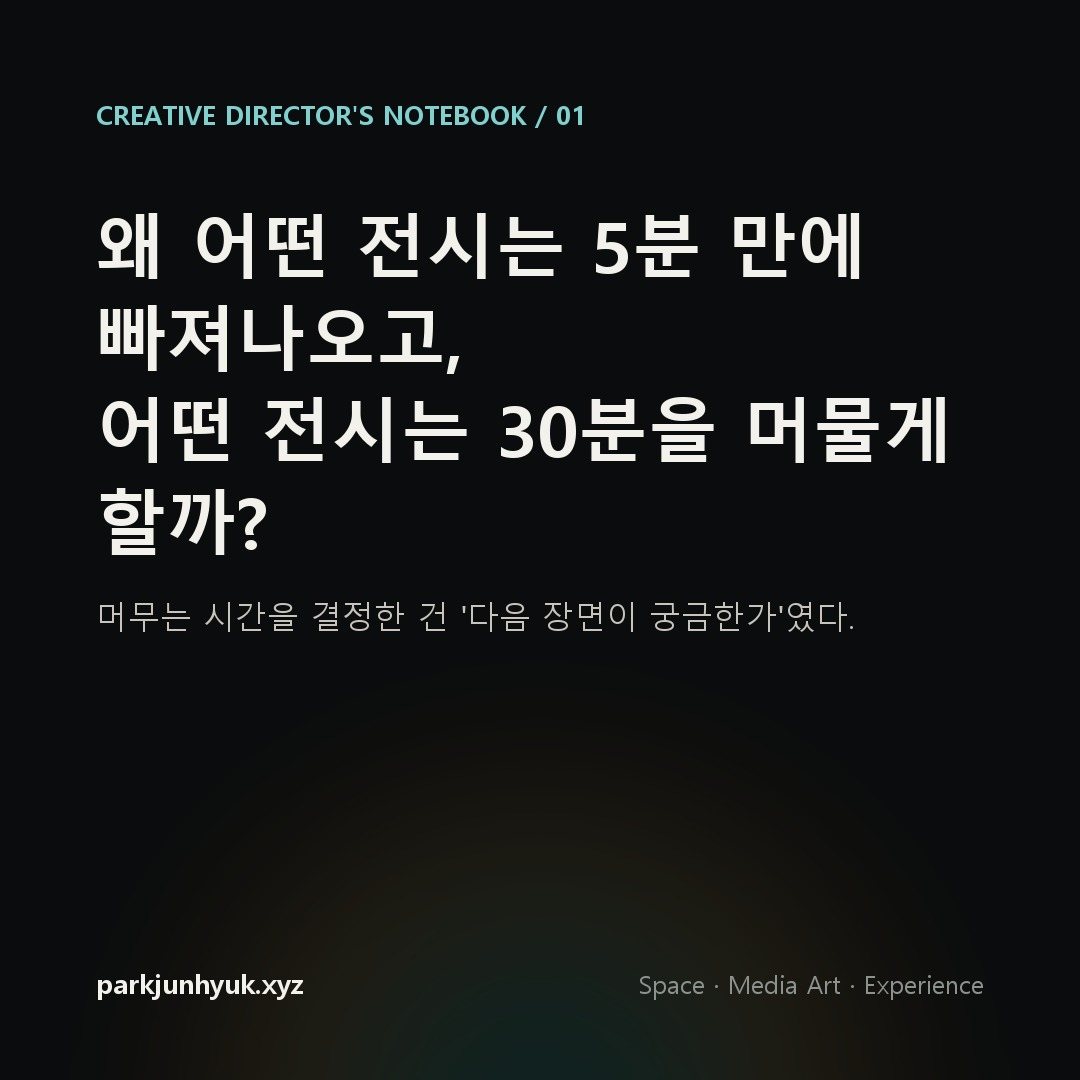
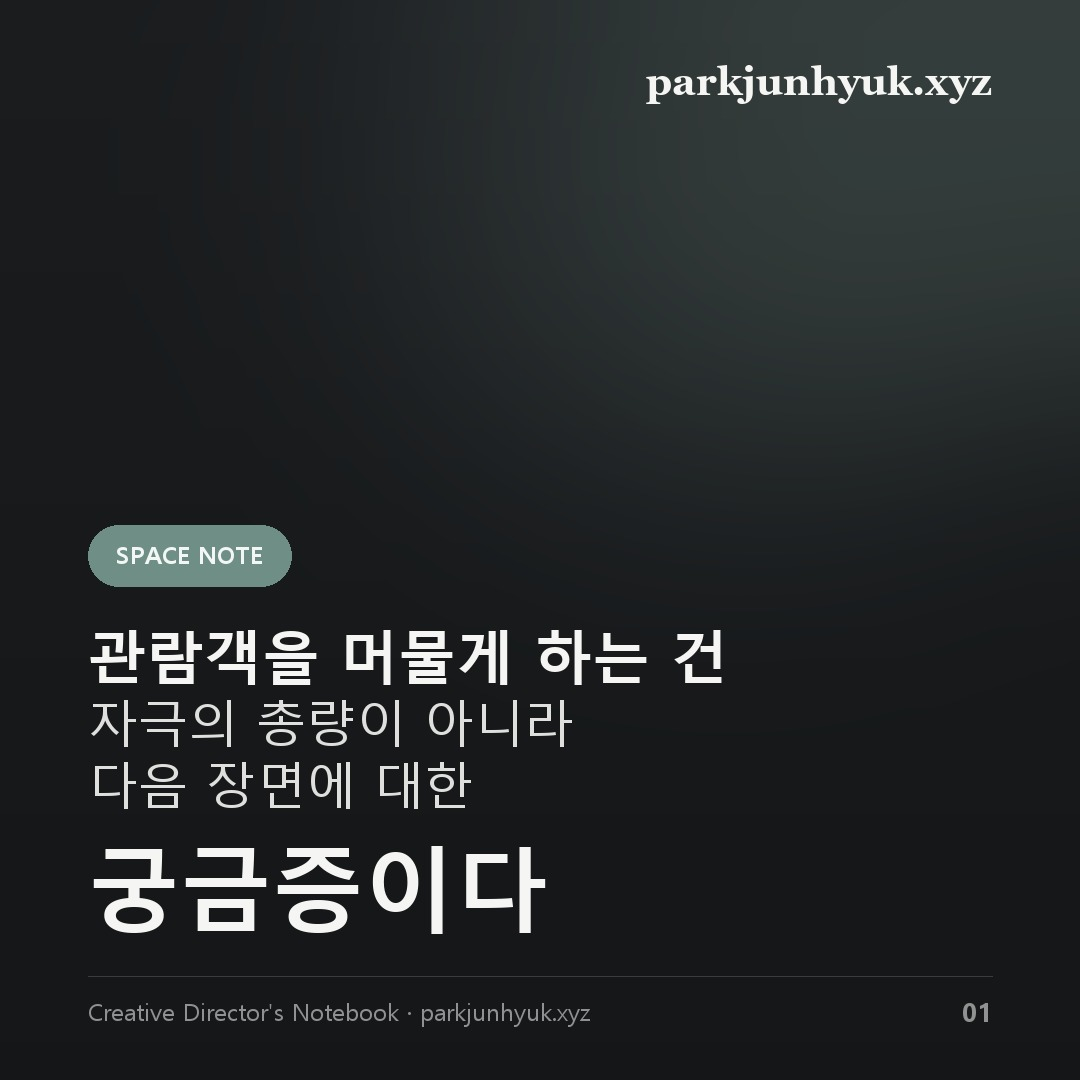
design: adopt NEWSROOM editorial poster (badge + mixed-weight headline + footer index)

diff --git a/make_image.py b/make_image.py
@@ -1,106 +1,181 @@
 """
-오늘의 IG 포스터 카드(1080x1080 JPEG)를 Pillow로 렌더링한다.
-브라우저/폰트 설치 없이 CI에서 동작하도록 시스템 한글 폰트를 자동 탐색한다.
+오늘의 IG 포스터 카드(1080x1080 JPEG) 렌더.
+참고 디자인: RIMAN 'NEWSROOM' 에디토리얼 템플릿.
+  - 다크 차콜 배경 + 상단 그라데이션 패널(선택적 사진)
+  - 우상단 세리프 워드마크
+  - 세이지 그린 알약형 카테고리 배지
+  - 혼합 굵기 헤드라인(강조 볼드 + 보조 라이트 + 거대 키워드)
+  - 푸터: 좌측 캡션 + 우측 인덱스 + 구분선
+브라우저/외부 폰트 없이 CI(Linux)에서 동작하도록 시스템 폰트를 자동 탐색한다.
 """
 import os
 from PIL import Image, ImageDraw, ImageFont, ImageFilter
 
 W = H = 1080
-BG = (10, 12, 13)
-FG = (243, 241, 236)
-TEAL = (127, 208, 207)
-AMBER = (231, 168, 90)
-SUB = (200, 196, 187)
-MUTED = (140, 147, 143)
 
-# 한글 폰트 후보 (CI Linux: fonts-noto-cjk / Windows: malgun)
-FONT_CANDIDATES_BOLD = [
+# 팔레트
+BG_TOP = (26, 28, 30)
+BG_BOT = (13, 14, 15)
+PILL = (111, 143, 134)        # muted sage green
+PILL_TX = (242, 246, 244)
+FG = (245, 245, 243)
+HEAD_SOFT = (223, 224, 222)   # 보조 헤드라인(라이트)
+CAPTION = (143, 146, 144)
+DIVIDER = (58, 61, 63)
+
+# ---- 폰트 후보 (CI Linux: fonts-noto-cjk / Windows: malgun, georgia) ----
+F_CJK_BOLD = [
     "/usr/share/fonts/opentype/noto/NotoSansCJK-Bold.ttc",
     "/usr/share/fonts/truetype/noto/NotoSansCJK-Bold.ttc",
     "fonts/NotoSansKR-Bold.ttf",
     "C:/Windows/Fonts/malgunbd.ttf",
-    "C:/Windows/Fonts/malgun.ttf",
 ]
-FONT_CANDIDATES_REG = [
+F_CJK_REG = [
     "/usr/share/fonts/opentype/noto/NotoSansCJK-Regular.ttc",
     "/usr/share/fonts/truetype/noto/NotoSansCJK-Regular.ttc",
     "fonts/NotoSansKR-Regular.ttf",
     "C:/Windows/Fonts/malgun.ttf",
 ]
+F_SERIF = [  # 우상단 워드마크용 세리프
+    "C:/Windows/Fonts/georgiab.ttf",
+    "C:/Windows/Fonts/georgia.ttf",
+    "/usr/share/fonts/truetype/dejavu/DejaVuSerif-Bold.ttf",
+    "/usr/share/fonts/truetype/liberation/LiberationSerif-Bold.ttf",
+]
 
 
-def _font(candidates, size):
-    for path in candidates:
-        if os.path.exists(path):
+def _font(cands, size):
+    for p in cands:
+        if os.path.exists(p):
             try:
-                return ImageFont.truetype(path, size)
+                return ImageFont.truetype(p, size)
             except Exception:
                 continue
     return ImageFont.load_default()
 
 
 def _wrap(draw, text, font, max_w):
-    """공백 단위 줄바꿈. \\n은 강제 줄바꿈."""
-    lines = []
+    out = []
     for para in text.split("\n"):
-        words = para.split(" ")
-        cur = ""
+        words, cur = para.split(" "), ""
         for w in words:
-            test = (cur + " " + w).strip()
-            if draw.textlength(test, font=font) <= max_w:
-                cur = test
+            t = (cur + " " + w).strip()
+            if draw.textlength(t, font=font) <= max_w:
+                cur = t
             else:
                 if cur:
-                    lines.append(cur)
+                    out.append(cur)
                 cur = w
-        lines.append(cur)
-    return lines
+        out.append(cur)
+    return out
 
 
-def render(kicker: str, hook: str, sub: str, out_path: str = "out/today.jpg") -> str:
+def _vertical_gradient(top, bottom):
+    base = Image.new("RGB", (W, H), top)
+    top_c = Image.new("RGB", (W, H), bottom)
+    mask = Image.new("L", (1, H))
+    for y in range(H):
+        mask.putpixel((0, y), int(255 * (y / H)))
+    mask = mask.resize((W, H))
+    base.paste(top_c, (0, 0), mask)
+    return base
+
+
+def _top_panel(img, top_image=None, panel_h=560):
+    """상단 패널: 사진이 있으면 채우고 아래로 어둡게 페이드, 없으면 은은한 글로우."""
+    if top_image and os.path.exists(top_image):
+        photo = Image.open(top_image).convert("RGB")
+        # 가로 채움 크롭
+        ratio = max(W / photo.width, panel_h / photo.height)
+        photo = photo.resize((int(photo.width * ratio), int(photo.height * ratio)))
+        photo = photo.crop((0, 0, W, panel_h))
+        img.paste(photo, (0, 0))
+        # 하단 페이드 (패널 → 배경색)
+        fade = Image.new("L", (1, panel_h), 0)
+        for y in range(panel_h):
+            a = max(0.0, (y - panel_h * 0.45) / (panel_h * 0.55))
+            fade.putpixel((0, y), int(255 * min(1.0, a)))
+        fade = fade.resize((W, panel_h))
+        img.paste(Image.new("RGB", (W, panel_h), BG_TOP), (0, 0), fade)
+    else:
+        glow = Image.new("RGB", (W, H), BG_TOP)
+        gd = ImageDraw.Draw(glow)
+        gd.ellipse([W * 0.30, -H * 0.18, W * 1.05, panel_h * 0.95], fill=(46, 52, 54))
+        gd.ellipse([W * 0.52, -H * 0.05, W * 1.15, panel_h * 0.7], fill=(70, 84, 80))
+        glow = glow.filter(ImageFilter.GaussianBlur(110))
+        img.paste(Image.composite(glow, img, Image.new("L", (W, H), 150)), (0, 0))
+    return img
+
+
+def _pill(draw, x, y, text, font):
+    pad_x, pad_y = 28, 14
+    tw = draw.textlength(text, font=font)
+    asc, desc = font.getmetrics()
+    th = asc + desc
+    w, h = tw + pad_x * 2, th + pad_y * 2
+    draw.rounded_rectangle([x, y, x + w, y + h], radius=h // 2, fill=PILL)
+    draw.text((x + pad_x, y + pad_y - 2), text, font=font, fill=PILL_TX)
+    return y + h
+
+
+def render(badge, head_bold, head_rest, keyword, caption,
+           index="01", out_path="out/today.jpg", top_image=None):
+    """
+    badge      : 알약 배지 텍스트 (영문 대문자 권장, 예 'MEDIA ART')
+    head_bold  : 강조 헤드라인(볼드) 한 줄
+    head_rest  : 보조 헤드라인(라이트) — str 또는 list[str]
+    keyword    : 거대 키워드/결론 한 줄 (엑스트라볼드)
+    caption    : 푸터 좌측 캡션
+    index      : 푸터 우측 번호
+    top_image  : 상단 패널에 넣을 사진 경로(선택)
+    """
     os.makedirs(os.path.dirname(out_path) or ".", exist_ok=True)
-    img = Image.new("RGB", (W, H), BG)
+    if isinstance(head_rest, str):
+        head_rest = [head_rest]
+
+    img = _vertical_gradient(BG_TOP, BG_BOT)
+    img = _top_panel(img, top_image=top_image)
     d = ImageDraw.Draw(img)
 
-    # 하단 글로우 (앰버/틸) — 블러로 부드럽게
-    glow = Image.new("RGB", (W, H), BG)
-    gd = ImageDraw.Draw(glow)
-    gd.ellipse([W * 0.20, H * 0.74, W * 0.80, H * 1.26], fill=(58, 40, 18))
-    gd.ellipse([W * 0.30, H * 0.84, W * 0.70, H * 1.30], fill=(16, 42, 42))
-    glow = glow.filter(ImageFilter.GaussianBlur(90))
-    img = Image.blend(img, glow, 0.7)
-    d = ImageDraw.Draw(img)
+    pad = 88
+    f_mark = _font(F_SERIF, 40)
+    f_badge = _font(F_CJK_BOLD, 24)
+    f_bold = _font(F_CJK_BOLD, 58)
+    f_soft = _font(F_CJK_REG, 50)
+    f_key = _font(F_CJK_BOLD, 92)
+    f_cap = _font(F_CJK_REG, 24)
+    f_idx = _font(F_CJK_BOLD, 26)
 
-    pad = 96
-    f_kick = _font(FONT_CANDIDATES_BOLD, 26)
-    f_hook = _font(FONT_CANDIDATES_BOLD, 70)
-    f_sub = _font(FONT_CANDIDATES_REG, 32)
-    f_foot = _font(FONT_CANDIDATES_BOLD, 27)
-    f_foot_r = _font(FONT_CANDIDATES_REG, 25)
+    # 우상단 워드마크
+    mark = "parkjunhyuk.xyz"
+    mw = d.textlength(mark, font=f_mark)
+    d.text((W - pad - mw, 58), mark, font=f_mark, fill=FG)
 
-    y = pad
-    # kicker
-    d.text((pad, y), kicker.upper(), font=f_kick, fill=TEAL)
-    y += 70
-
-    # hook (강조 단어 색 처리는 단순화: 전체 FG, 줄바꿈 처리)
+    # 배지
+    y = _pill(d, pad, 525, badge.upper(), f_badge)
     y += 30
-    for line in _wrap(d, hook, f_hook, W - pad * 2):
-        d.text((pad, y), line, font=f_hook, fill=FG)
-        y += 92
 
-    # sub
-    y += 30
-    for line in _wrap(d, sub, f_sub, W - pad * 2):
-        d.text((pad, y), line, font=f_sub, fill=SUB)
-        y += 48
+    # 강조 헤드라인 (볼드)
+    for line in _wrap(d, head_bold, f_bold, W - pad * 2):
+        d.text((pad, y), line, font=f_bold, fill=FG)
+        y += 72
+    # 보조 헤드라인 (라이트)
+    for raw in head_rest:
+        for line in _wrap(d, raw, f_soft, W - pad * 2):
+            d.text((pad, y), line, font=f_soft, fill=HEAD_SOFT)
+            y += 62
+    # 거대 키워드
+    y += 12
+    for line in _wrap(d, keyword, f_key, W - pad * 2):
+        d.text((pad, y), line, font=f_key, fill=FG)
+        y += 100
 
-    # footer
-    fy = H - pad - 20
-    d.text((pad, fy), "parkjunhyuk.xyz", font=f_foot, fill=FG)
-    tag = "Space · Media Art · Experience"
-    tw = d.textlength(tag, font=f_foot_r)
-    d.text((W - pad - tw, fy + 2), tag, font=f_foot_r, fill=MUTED)
+    # 푸터: 구분선 + 캡션 + 인덱스
+    fy = H - pad + 2
+    d.line([(pad, fy - 18), (W - pad, fy - 18)], fill=DIVIDER, width=1)
+    d.text((pad, fy), caption, font=f_cap, fill=CAPTION)
+    iw = d.textlength(index, font=f_idx)
+    d.text((W - pad - iw, fy - 1), index, font=f_idx, fill=CAPTION)
 
     img.save(out_path, "JPEG", quality=92)
     return out_path
@@ -108,8 +183,11 @@ def render(kicker: str, hook: str, sub: str, out_path: str = "out/today.jpg") ->
 
 if __name__ == "__main__":
     p = render(
-        "Creative Director's Notebook / 01",
-        "왜 어떤 전시는 5분 만에 빠져나오고,\n어떤 전시는 30분을 머물게 할까?",
-        "머무는 시간을 결정한 건 '다음 장면이 궁금한가'였다.",
+        badge="Space Note",
+        head_bold="관람객을 머물게 하는 건",
+        head_rest=["자극의 총량이 아니라", "다음 장면에 대한"],
+        keyword="궁금증이다",
+        caption="Creative Director's Notebook · parkjunhyuk.xyz",
+        index="01",
     )
     print("saved:", p)

diff --git a/generate.py b/generate.py
@@ -59,10 +59,14 @@ def generate_posts() -> dict:
   스타일: {roles['linkedin']['style']}
   분량: {roles['linkedin']['length']}
 
-그리고 Instagram 포스터 카드에 들어갈 텍스트도 만들어줘:
-  - kicker: 영문 시리즈명 + 번호 (예: "Creative Director's Notebook / 01"), 짧게
-  - hook: 카드의 큰 한 문장 (질문형 권장, 40자 내외, 줄바꿈 \\n 1회 허용)
-  - sub: 카드 보조 문장 (30자 내외)
+그리고 Instagram 포스터 카드에 들어갈 텍스트도 만들어줘.
+카드는 '혼합 굵기 헤드라인 + 거대 키워드' 에디토리얼 레이아웃이다:
+  - badge: 알약형 카테고리 배지. 영문 대문자 1~2단어 (예: "SPACE NOTE", "MEDIA ART", "AI CREATIVE")
+  - head_bold: 강조 헤드라인(볼드) 한 줄. 한국어 14자 내외, 문장 도입부.
+  - head_rest: 보조 헤드라인(라이트) 1~2줄. 각 줄 12자 내외의 배열(list).
+  - keyword: 카드에서 가장 크게 박히는 결론 단어/짧은 구. 한국어 6자 내외 한 줄.
+  - caption: 푸터 좌측 캡션. 영문 시리즈명 + 핸들 (예: "Creative Director's Notebook · parkjunhyuk.xyz")
+  → head_bold + head_rest + keyword 를 위에서 아래로 읽으면 하나의 완성된 문장이 되도록 자연스럽게 끊어라.
 
 반드시 아래 JSON 형식으로만 답해. 다른 말 금지:
 {{
@@ -70,7 +74,7 @@ def generate_posts() -> dict:
   "instagram": {{"caption": "...", "series": "{series}"}},
   "facebook": {{"text": "..."}},
   "linkedin": {{"text": "..."}},
-  "image": {{"kicker": "...", "hook": "...", "sub": "..."}}
+  "image": {{"badge": "...", "head_bold": "...", "head_rest": ["...", "..."], "keyword": "...", "caption": "..."}}
 }}"""
 
     client = anthropic.Anthropic(api_key=os.environ["ANTHROPIC_API_KEY"])

diff --git a/main.py b/main.py
@@ -26,7 +26,18 @@ def do_generate():
     os.makedirs(OUT_DIR, exist_ok=True)
     data = generate.generate_posts()
     img = data["image"]
-    make_image.render(img["kicker"], img["hook"], img["sub"], IMAGE_JPG)
+    # 푸터 인덱스: 연중 일수 기반 2자리 번호
+    import datetime
+    index = f"{(datetime.datetime.utcnow().timetuple().tm_yday % 99) + 1:02d}"
+    make_image.render(
+        badge=img["badge"],
+        head_bold=img["head_bold"],
+        head_rest=img.get("head_rest", []),
+        keyword=img["keyword"],
+        caption=img.get("caption", "parkjunhyuk.xyz"),
+        index=index,
+        out_path=IMAGE_JPG,
+    )
     with open(POSTS_JSON, "w", encoding="utf-8") as f:
         json.dump(data, f, ensure_ascii=False, indent=2)
     print("✅ generated:", data.get("topic"))